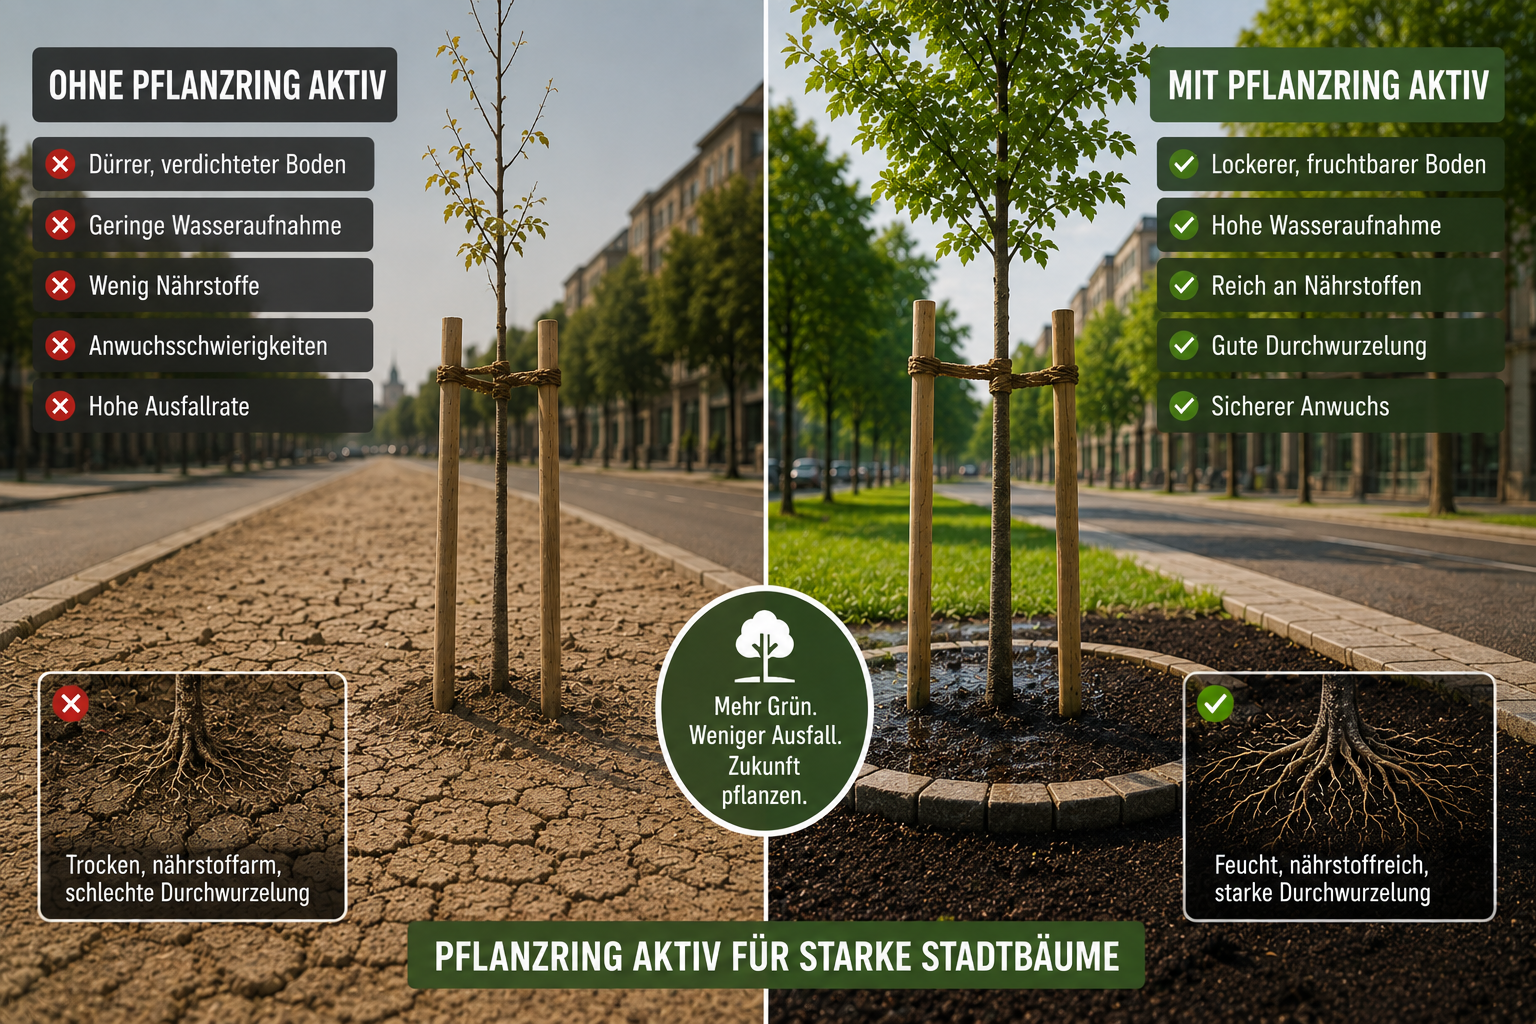
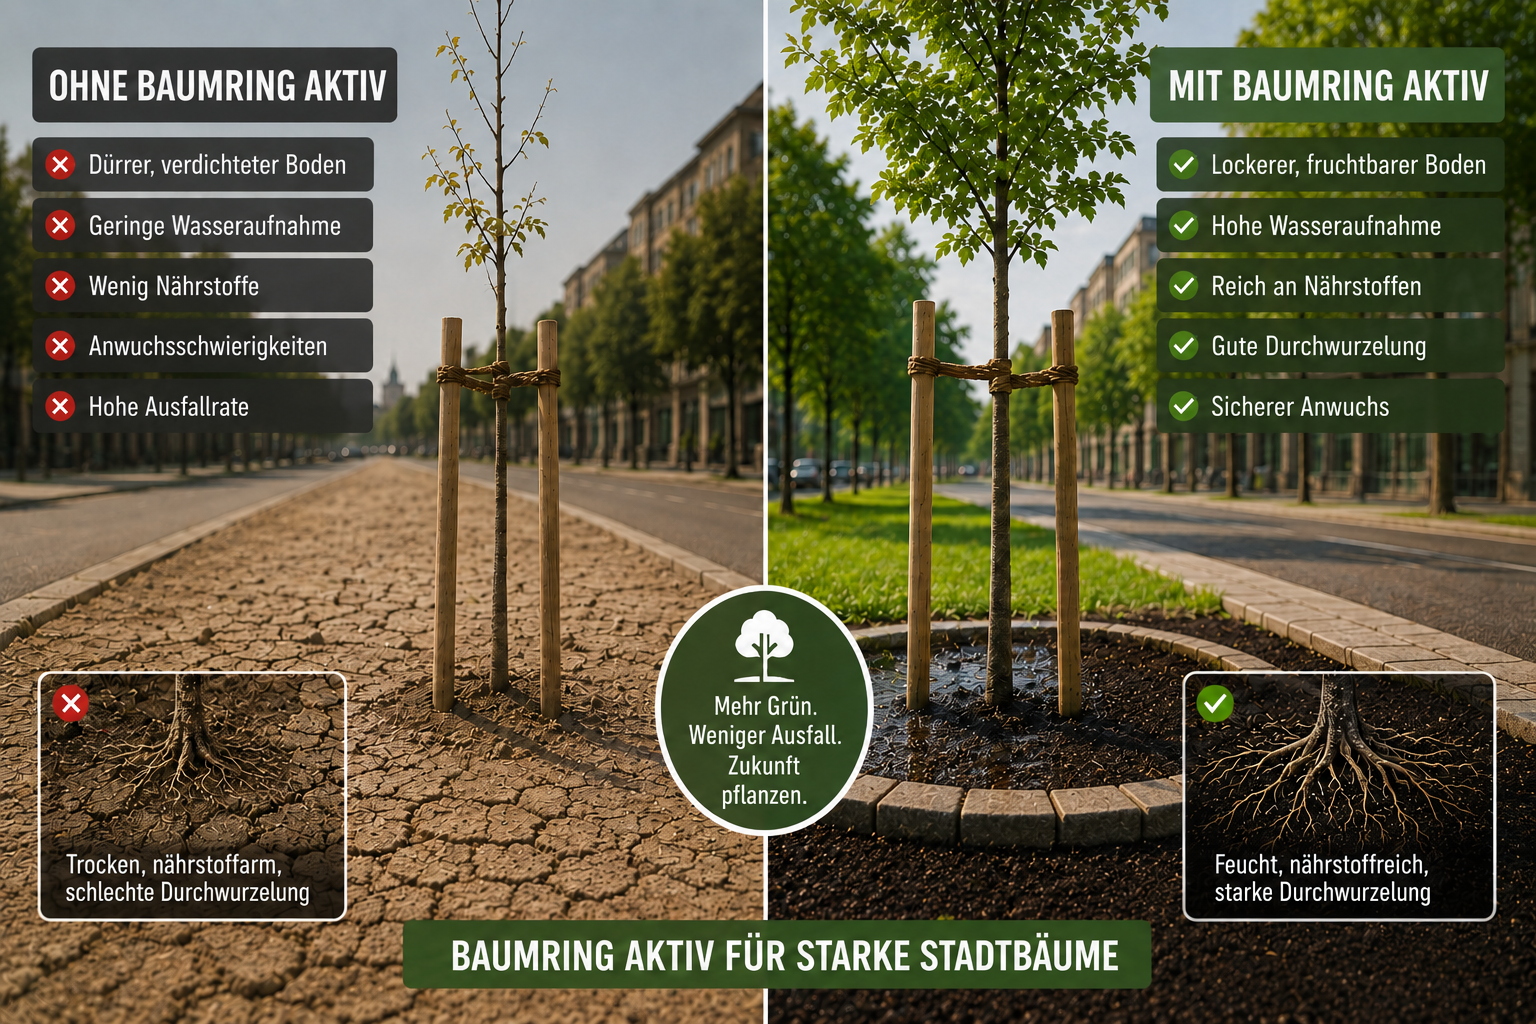
Neue Produktfotos (Hochbeet/Balkon) + Baumring-Galerie-Grafik aktualisiert
- Hochbeet aktiv & Balkon aktiv: neue Garten-Quadratfotos (object-fit cover,
  füllen den Bildrahmen); Gartenerde unverändert
- Baumring/Stadtbäume-Infografik in der Galerie durch die neue Version ersetzt
- Kontaktdaten bewusst NICHT geändert (warten auf offizielle Angaben vom Anwalt)

diff --git a/index.html b/index.html
@@ -193,10 +193,10 @@
       <!-- 3 Kernprodukte -->
       <div class="pr-row">
         <article class="pr-card reveal">
-          <div class="pr-img">
+          <div class="pr-img pr-img--photo">
             <picture>
-              <source type="image/webp" srcset="assets/images/prod-hochbeet-cut.webp">
-              <img src="assets/images/prod-hochbeet-cut.png" alt="Hochbeet aktiv – aktivierte Pflanzenkohle von Carbon4Future" loading="lazy">
+              <source type="image/webp" srcset="assets/images/prod-hochbeet-foto.webp">
+              <img src="assets/images/prod-hochbeet-foto.jpg" alt="Üppig bepflanztes Hochbeet mit Tomaten, Salat und Erdbeeren – Hochbeet aktiv von Carbon4Future" loading="lazy">
             </picture>
           </div>
           <div class="pr-body">
@@ -209,10 +209,10 @@
         </article>
 
         <article class="pr-card reveal reveal-d1">
-          <div class="pr-img">
+          <div class="pr-img pr-img--photo">
             <picture>
-              <source type="image/webp" srcset="assets/images/prod-balkon-cut.webp">
-              <img src="assets/images/prod-balkon-cut.png" alt="Balkon aktiv – aktivierte Pflanzenkohle von Carbon4Future" loading="lazy">
+              <source type="image/webp" srcset="assets/images/prod-balkon-foto.webp">
+              <img src="assets/images/prod-balkon-foto.jpg" alt="Blühende Topfpflanzen auf einer Terrasse – Balkon aktiv von Carbon4Future" loading="lazy">
             </picture>
           </div>
           <div class="pr-body">

diff --git a/css/style.css b/css/style.css
@@ -2771,6 +2771,8 @@ ul { list-style: none; }
 .pr-card:hover { transform: translateY(-4px); box-shadow: 0 18px 44px rgba(22,17,10,.14); }
 .pr-img { background: linear-gradient(160deg, #f7f1e2, #ece0c4); aspect-ratio: 4 / 3; display: flex; align-items: center; justify-content: center; padding: 1.4rem; }
 .pr-img img { max-width: 100%; max-height: 100%; width: auto; height: auto; object-fit: contain; }
+.pr-img--photo { padding: 0; }
+.pr-img--photo img { width: 100%; height: 100%; max-width: none; max-height: none; object-fit: cover; }
 .pr-body { padding: 1.6rem 1.6rem 1.8rem; display: flex; flex-direction: column; flex: 1; }
 .pr-avail { display: inline-block; align-self: flex-start; font-family: var(--ff-body); font-size: .78rem; font-weight: 700; letter-spacing: .02em; color: var(--forest); background: rgba(27,77,16,.1); padding: .32rem .7rem; border-radius: 100px; margin-bottom: .9rem; }
 .pr-name { font-family: var(--ff-head); font-size: 1.4rem; font-weight: 700; color: var(--coal); margin-bottom: .35rem; letter-spacing: -.01em; }